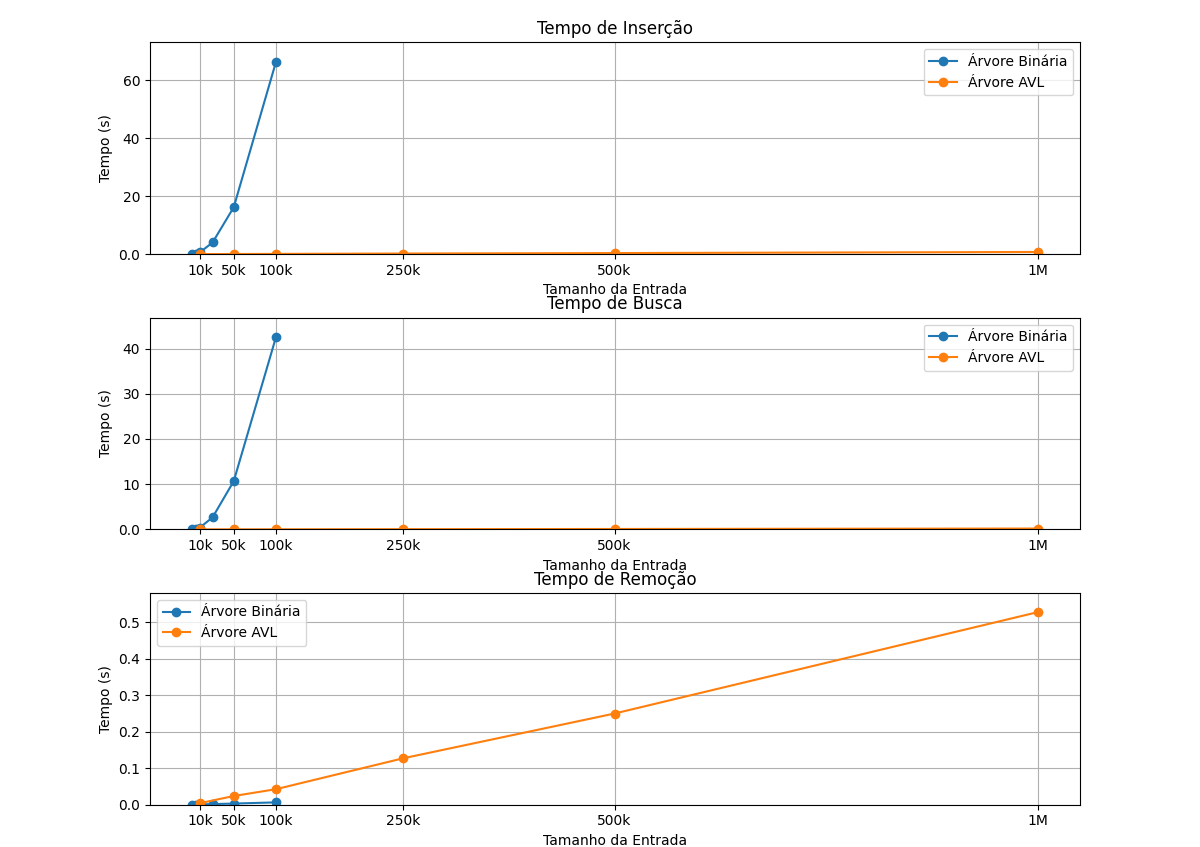
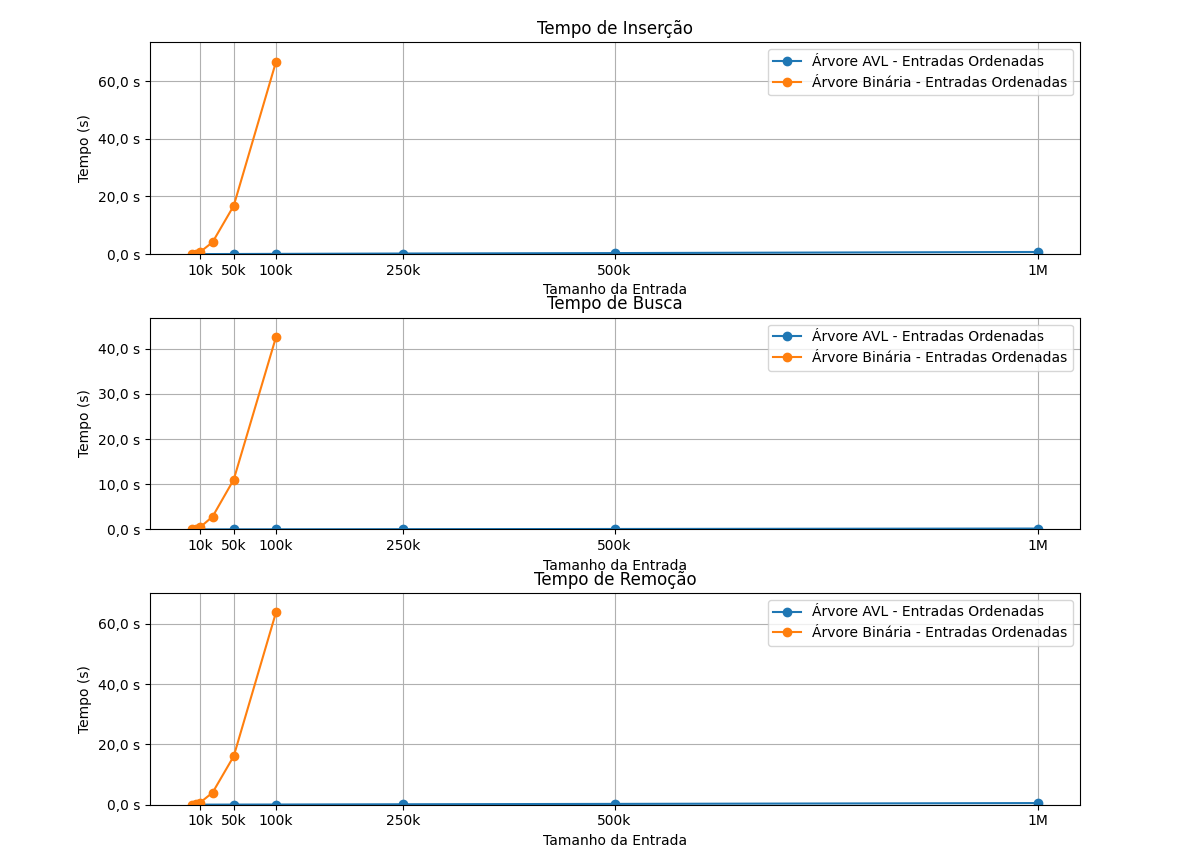
Testes e graficos atualizados - Árvore Binária C++

diff --git a/Analise-Jesse/Python/BinaryTreeTest.py b/Analise-Jesse/Python/BinaryTreeTest.py
@@ -1,0 +1,136 @@
+import time
+import random
+import csv
+
+# ------------------------------
+# Implementação da BST
+# ------------------------------
+class Node:
+    def __init__(self, valor):
+        self.valor = valor
+        self.esquerda = None
+        self.direita = None
+
+class BinaryTree:
+    def __init__(self):
+        self.root = None
+
+    def insert(self, valor):
+        self.root = self._insert(self.root, valor)
+
+    def _insert(self, node, valor):
+        if node is None:
+            return Node(valor)
+        if valor < node.valor:
+            node.esquerda = self._insert(node.esquerda, valor)
+        else:
+            node.direita = self._insert(node.direita, valor)
+        return node
+
+    def search(self, valor):
+        return self._search(self.root, valor)
+
+    def _search(self, node, valor):
+        if node is None or node.valor == valor:
+            return node
+        if valor < node.valor:
+            return self._search(node.esquerda, valor)
+        else:
+            return self._search(node.direita, valor)
+
+    def remove(self, valor):
+        self.root = self._remove(self.root, valor)
+
+    def _remove(self, node, valor):
+        if node is None:
+            return None
+        if valor < node.valor:
+            node.esquerda = self._remove(node.esquerda, valor)
+        elif valor > node.valor:
+            node.direita = self._remove(node.direita, valor)
+        else:
+            if node.esquerda is None:
+                return node.direita
+            elif node.direita is None:
+                return node.esquerda
+            temp = self._minValueNode(node.direita)
+            node.valor = temp.valor
+            node.direita = self._remove(node.direita, temp.valor)
+        return node
+
+    def _minValueNode(self, node):
+        atual = node
+        while atual.esquerda is not None:
+            atual = atual.esquerda
+        return atual
+
+# ------------------------------
+# Geradores de dados
+# ------------------------------
+def gerar_dados_aleatorios(tamanho):
+    return [random.randint(1, tamanho * 10) for _ in range(tamanho)]
+
+def gerar_dados_ordenados(tamanho):
+    return list(range(1, tamanho + 1))
+
+# ------------------------------
+# Teste de desempenho da BST
+# ------------------------------
+def testar_bst(valores):
+    arvore = BinaryTree()
+
+    inicio = time.time()
+    for valor in valores:
+        arvore.insert(valor)
+    tempo_insercao = time.time() - inicio
+
+    inicio = time.time()
+    for valor in valores:
+        arvore.search(valor)
+    tempo_busca = time.time() - inicio
+
+    # Remoção em ordem inversa
+    inicio = time.time()
+    for valor in reversed(valores):
+        arvore.remove(valor)
+    tempo_remocao = time.time() - inicio
+
+    return tempo_insercao, tempo_busca, tempo_remocao
+
+# ------------------------------
+# Função principal
+# ------------------------------
+def executar_teste():
+    escolha = input("Escolha o tipo de dados para o teste:\n1 - Aleatórios\n2 - Ordenados\n> ")
+
+    if escolha == "1":
+        tamanhos = [10000, 50000, 100000, 250000, 500000, 1000000]
+        tipo_dados = "aleatorio"
+    else:
+        tamanhos = [1000, 5000, 10000, 25000, 50000, 100000]
+        tipo_dados = "ordenado"
+
+    nome_arquivo = f"dados_{tipo_dados}_binaria_python.csv"
+    with open(nome_arquivo, mode='w', newline='') as arquivo:
+        writer = csv.writer(arquivo)
+        writer.writerow(["Tamanho", "Arvore", "Operacao", "Tempo"])
+
+        for tamanho in tamanhos:
+            dados = gerar_dados_aleatorios(tamanho) if escolha == "1" else gerar_dados_ordenados(tamanho)
+            tempos = testar_bst(dados)
+
+            writer.writerow([tamanho, "Binaria", "Insercao", f"{tempos[0]:.6f}"])
+            writer.writerow([tamanho, "Binaria", "Busca", f"{tempos[1]:.6f}"])
+            writer.writerow([tamanho, "Binaria", "Remocao", f"{tempos[2]:.6f}"])
+
+            print(f"\nTamanho: {tamanho}")
+            print(f"Árvore Binária - Inserção: {tempos[0]:.6f}s, Busca: {tempos[1]:.6f}s, Remoção (reversa): {tempos[2]:.6f}s")
+            input("Pressione Enter para continuar com o próximo tamanho...")
+
+    print(f"\nDados salvos em '{nome_arquivo}'.")
+
+# ------------------------------
+# Execução
+# ------------------------------
+if __name__ == "__main__":
+    executar_teste()

diff --git a/Analise-Jesse/C ++/BinaryTreeTest.cpp b/Analise-Jesse/C ++/BinaryTreeTest.cpp
@@ -16,6 +16,13 @@ using namespace std::chrono;
     Email: jesse.oliveira.chagas@ccc.ufcg.edu.br
     Matrícula: 123210473
     Nome de usuário do GitHub: jessechagas
+
+    Brevemente modificado por:
+
+    Aluno: Denis Almeida Ferreira
+    Email: denis.almeida.ferreira@ccc.ufcg.edu.br
+    Matrícula: 123210975
+    Usuário no GitHub: DenisAlmeidaFerreira
 */
 
 // Função para gerar dados aleatórios
@@ -54,8 +61,11 @@ vector<double> testBinaryTree(vector<int>& valores) {
     fim = high_resolution_clock::now();
     double tempoBusca = duration<double>(fim - inicio).count();
 
+    vector<int> valoresDecrescentes = valores;
+    sort(valoresDecrescentes.begin(), valoresDecrescentes.end(), greater<int>());
+
     inicio = high_resolution_clock::now();
-    for (int valor : valores) {
+    for (int valor : valoresDecrescentes) {
         arvore.root = arvore.remove(valor);
     }
     fim = high_resolution_clock::now();
@@ -96,16 +106,13 @@ void executarTeste() {
     for (int tamanho : entradas) {
         vector<int> dados = (escolha == 1) ? gerarDadosAleatorios(tamanho) : gerarDadosOrdenados(tamanho);
         vector<double> tempos = testBinaryTree(dados);
-
+    
         arquivo << tamanho << ",Binaria,Insercao," << tempos[0] << "\n";
         arquivo << tamanho << ",Binaria,Busca," << tempos[1] << "\n";
         arquivo << tamanho << ",Binaria,Remocao," << tempos[2] << "\n";
-
+    
         cout << "Tamanho: " << tamanho << "\n";
         printf("Árvore Binária - Inserção: %.6fs, Busca: %.6fs, Remoção: %.6fs\n", tempos[0], tempos[1], tempos[2]);
-
-        cout << "Pressione Enter para continuar com o próximo tamanho...\n";
-        cin.ignore();
     }
 
     arquivo.close();
